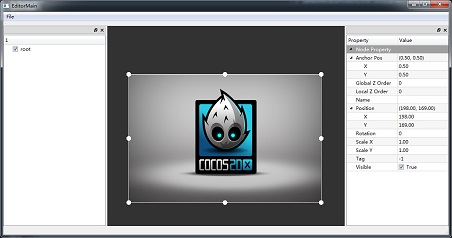
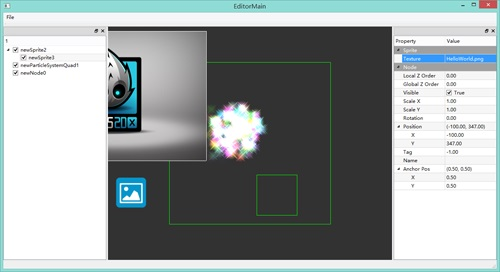
Add EditorNode,DefaultValue, set root Node read only. Update preview.jpg

diff --git a/qteditor/Editor/PropertyDef.cpp b/qteditor/Editor/PropertyDef.cpp
@@ -45,6 +45,7 @@ public:
 	virtual void beginGroup(const std::string& name)
 	{
 		_current = _mgr->addProperty(QtVariantPropertyManager::groupTypeId(), QLatin1String(name.c_str()));
+		_rootProps[name] = _current;
 	}
 
 	virtual void endGroup()
@@ -52,14 +53,8 @@ public:
 		_browser->addProperty(_current);
 	}
 
-	virtual QtVariantProperty* add(
-		const std::string& name, AttributeAccessor* accessor, const Variant& defaultValue, const Variant& minimum, const Variant& maximum, const Variant& step)
+	virtual void updateValue(QtVariantProperty* item, AttributeAccessor* accessor, const Variant& defaultValue, const Variant& minimum, const Variant& maximum, const Variant& step)
 	{
-		QString dfname = defaultValue.value<QVariant>().typeName();
-		QtVariantProperty *item = _mgr->addProperty(defaultValue.value<QVariant>().type(), QLatin1String(name.c_str()));
-
-		_map[item] = accessor;
-
 		Variant value;
 		accessor->get(_node, value);
 		QVariant v = value.value<QVariant>();
@@ -74,7 +69,18 @@ public:
 		if (!step.isNull())
 			item->setAttribute(QLatin1String("singleStep"), step.value<QVariant>());
 
+	}
+
+	virtual QtVariantProperty* add(
+		const std::string& name, AttributeAccessor* accessor, const Variant& defaultValue, const Variant& minimum, const Variant& maximum, const Variant& step)
+	{
+		QString dfname = defaultValue.value<QVariant>().typeName();
+		QtVariantProperty *item = _mgr->addProperty(defaultValue.value<QVariant>().type(), QLatin1String(name.c_str()));
+
+		_map[item] = accessor;
+		updateValue(item, accessor, defaultValue, minimum, maximum, step);
 		_current->addSubProperty(item);
+
 		return item;
 	}
 
@@ -90,11 +96,23 @@ public:
 		return nullptr;
 	}
 
+	virtual QtVariantProperty* isIn(const std::string& name)
+	{
+		auto iter = _rootProps.find(name);
+		if (iter != _rootProps.end())
+		{
+			return iter->second;
+		}
+
+		return nullptr;
+	}
+
 	Node* _node;
 	QtTreePropertyBrowser* _browser;
 	QtVariantProperty* _current;
 	QtVariantPropertyManager* _mgr;
 	std::map<QtProperty*, AttributeAccessor*> _map;
+	std::map<std::string, QtVariantProperty*> _rootProps;
 };
 
 static Builder s_builder;
@@ -102,6 +120,9 @@ static QtVariantProperty* s_position_prop = nullptr;
 
 static void addAccessorGroup(AccessorGroup* ag)
 {
+	QtVariantProperty* old = s_builder.isIn(ag->name);
+	//if old valid, update it, not re-create
+
 	s_builder.beginGroup(ag->name);
 
 	AccessorGroup::AAInfoList::iterator iter;
@@ -109,7 +130,7 @@ static void addAccessorGroup(AccessorGroup* ag)
 	for (iter = ag->infolist.begin(); iter != ag->infolist.end(); iter++)
 	{
 		AAInfo* aainfo = *iter;
-		s_builder.add(aainfo->accessor->getName(), 
+		s_builder.add(aainfo->accessor->getName(),
 			aainfo->accessor, aainfo->defaultValue, aainfo->mini, aainfo->maxi, aainfo->singleStep);
 	}
 	s_builder.endGroup();
@@ -120,6 +141,8 @@ static void addAccessorGroup(AccessorGroup* ag)
 
 void PropertyDef::setupProperties(const std::string& typeName, Node* instance, QtTreePropertyBrowser* browser, QtVariantPropertyManager* mgr)
 {
+	browser->clear();//re-write
+
 	Builder& b = s_builder;
 	b.set(instance, browser, mgr);
 

diff --git a/qteditor/Editor/AttributeAccessor.cpp b/qteditor/Editor/AttributeAccessor.cpp
@@ -3,6 +3,7 @@
 #include "2d/CCSprite.h"
 #include "2d/CCParticleSystem.h"
 #include "2d/CCParticleSystemQuad.h"
+#include "DefaultValue.h"
 
 AAManager AAManager::_instance;
 
@@ -39,26 +40,6 @@ AccessorGroup* AAManager::getGroup(const std::string& name) const
 static std::string getSpriteTextureName(const Sprite*) { return "image.png"; }//lazy
 static void setSpriteTextureName(Sprite* sp, const std::string& name) { sp->setTexture(name); }
 
-static Node* defaultNodeCtor() 
-{
-	Node* node = Node::create();
-	node->setContentSize(Size(100, 100));
-	return node;
-}
-
-static Sprite* defaultSpriteCtor()
-{
-	Sprite* sp = Sprite::create("image.png");
-	return sp;
-}
-
-static ParticleSystemQuad* defaultParticleSystem()
-{
-	ParticleSystemQuad* psq = ParticleSystemQuad::create("default_particle.plist");
-	psq->setContentSize(Size(100, 100));
-	return psq;
-}
-
 #define ATTR_(trait, name, get, set, typeName, defaultValue) \
 	currentGroup->add(new AAInfo(new AttributeAccessorImpl<TYPE, typeName, trait<typeName> >(name, get, set), defaultValue)) \
 
@@ -88,7 +69,7 @@ void AAManager::initAll()
 {
 	AccessorGroup* currentGroup;
 
-	StartGroup(Node, defaultNodeCtor);
+	StartGroup(Node, DefaultValue::defaultNodeCtor);
 	ATTR("Local Z Order", &Node::getLocalZOrder, &Node::setLocalZOrder, int, 0);
 	ATTR("Global Z Order", &Node::getGlobalZOrder, &Node::setGlobalZOrder, float, 0.0f);
 	ATTR("Visible", &Node::isVisible, &Node::setVisible, bool, true);
@@ -101,12 +82,12 @@ void AAManager::initAll()
 	ATTRMMS("Anchor Pos", &Node::getAnchorPoint, &Node::setAnchorPoint, Vec2, Vec2(0, 0), Vec2(0, 0), Vec2(1, 1), Vec2(0.1, 0.1));
 	EndGroup();
 
-	StartGroup(Sprite, defaultSpriteCtor);
+	StartGroup(Sprite, DefaultValue::defaultSpriteCtor);
 	Require(Node);
 	ATTRMixed1("Texture", &getSpriteTextureName, &setSpriteTextureName, std::string, std::string());
 	EndGroup();
 
-	StartGroup(ParticleSystemQuad, defaultParticleSystem);
+	StartGroup(ParticleSystemQuad, DefaultValue::defaultParticleSystem);
 	Require(Node);
 
 	ATTR("Duration", &ParticleSystem::getDuration, &ParticleSystem::setDuration, float, 0);

diff --git a/qteditor/EditorMain.cpp b/qteditor/EditorMain.cpp
@@ -19,9 +19,6 @@ EditorMain::EditorMain(QWidget *parent)
 	_variantManager = new QtVariantPropertyManager();
 	QtVariantEditorFactory *variantFactory = new QtVariantEditorFactory();
 
-	connect(_variantManager, SIGNAL(valueChanged(QtProperty *, const QVariant &)),
-		this, SLOT(valueChanged(QtProperty *, const QVariant &)));
-
 	_variantEditor = new QtTreePropertyBrowser();
 	_variantEditor->setFactoryForManager(_variantManager, variantFactory);
 	_variantEditor->setPropertiesWithoutValueMarked(true);
@@ -50,13 +47,14 @@ void EditorMain::boxPositionChanged(const Vec2& pos)
 	PropertyDef::setPosition(_sceneCtrl->getBox()->getNode(), QPoint(pos.x, pos.y));
 }
 
-void EditorMain::viewBoxAttr()
+void EditorMain::viewBoxAttr(Node* node)
 {
-	_variantEditor->clear();
-
-	Node* node = _sceneCtrl->getBox()->getNode();
+	//avoid while(1)
+	disconnect(_variantManager, SIGNAL(valueChanged(QtProperty *, const QVariant &)), this, SLOT(valueChanged(QtProperty *, const QVariant &)));
 
 	PropertyDef::setupProperties(_sceneCtrl->getNodeType(node), node, _variantEditor, _variantManager);
+
+	connect(_variantManager, SIGNAL(valueChanged(QtProperty *, const QVariant &)), this, SLOT(valueChanged(QtProperty *, const QVariant &)));
 }
 
 void EditorMain::onStart()
@@ -80,9 +78,9 @@ void EditorMain::onStart()
 
 	_sceneCtrl = _glwindow->createCocos2dSceneCtrl();
 
-	connect(_sceneCtrl, SIGNAL(selectedBox()), this, SLOT(viewBoxAttr()));
+	connect(_boxlist, SIGNAL(onSelectNode(Node*)), this, SLOT(viewBoxAttr(Node*)));
+	connect(_boxlist, SIGNAL(onSelectNode(Node*)), _sceneCtrl, SLOT(setCurrentNode(Node*)));
 	connect(_boxlist, SIGNAL(newNode(NodeInfo*)), _sceneCtrl, SLOT(registerNode(NodeInfo*)));
 	connect(_sceneCtrl->getBox(), SIGNAL(onPositionChanged(const Vec2&)), this, SLOT(boxPositionChanged(const Vec2&)));
-	connect(_boxlist, SIGNAL(onSelectNode(Node*)), _sceneCtrl, SLOT(setCurrentNode(Node*)));
 	_boxlist->updateList(_sceneCtrl->getUiRoot());
 }

diff --git a/qteditor/BoxList.cpp b/qteditor/BoxList.cpp
@@ -67,23 +67,19 @@ void BoxList::showMenu(const QPoint& pos)
 void BoxList::doAddWidget(QAction* act)
 {
 	std::string typeName = std::string(act->text().toUtf8());
-	MyTreeWidgetItem* newItem = add("new" + QString::number(_index), _currentWidget);
+	MyTreeWidgetItem* newItem = add("new" + act->text() + QString::number(_index++), _currentWidget);
 
 	newItem->setSelected(true);
 
-	if (!_currentWidget)
-		return;
-
-	if (_currentWidget->childCount() == 1)
-		_currentWidget->setExpanded(true);
-
-	_currentWidget->setSelected(false);
+	Node* parent = _root;
+	if (_currentWidget)
+		parent = _currentWidget->node;
 
 	const AAManager::GroupMap& map = AAManager::getInstance().getGroups();
 	AccessorGroup* info = map.at(typeName);
 
 	newItem->node = info->ctor->operator()();
-	_currentWidget->node->addChild(newItem->node);
+	parent->addChild(newItem->node);
 
 	NodeInfo nodeinfo;
 	nodeinfo.node = newItem->node;
@@ -92,13 +88,18 @@ void BoxList::doAddWidget(QAction* act)
 	emit newNode(&nodeinfo);
 	emit onSelectNode(newItem->node);//
 
-	_currentWidget = NULL;
+	if (_currentWidget)
+	{
+		if (_currentWidget->childCount() == 1)
+			_currentWidget->setExpanded(true);
+
+		_currentWidget->setSelected(false);
+		_currentWidget = NULL;
+	}
 }
 
 void BoxList::updateList(Node* root)
 {
-	MyTreeWidgetItem *item = add("root");
-	item->node = root;
-	
+	_root = root;
 	//for each child
 }

diff --git a/qteditor/Editor/EditorNode.cpp b/qteditor/Editor/EditorNode.cpp
@@ -1,0 +1,26 @@
+#include "EditorNode.h"
+#include "base/CCDirector.h"
+#include "2d/CCDrawingPrimitives.h"
+#include "renderer/CCRenderer.h"
+
+
+static void editor_draw(const Mat4 &transform, Size size)
+{
+
+	Director::getInstance()->pushMatrix(MATRIX_STACK_TYPE::MATRIX_STACK_MODELVIEW);
+	Director::getInstance()->loadMatrix(MATRIX_STACK_TYPE::MATRIX_STACK_MODELVIEW, transform);
+
+	//todo: draw name, draw Anchor Point?
+	DrawPrimitives::setDrawColor4F(0, 1, 0, 1);
+	DrawPrimitives::drawRect(Vec2(0, 0), size);
+	DrawPrimitives::setDrawColor4F(1, 1, 1, 1);
+
+	Director::getInstance()->popMatrix(MATRIX_STACK_TYPE::MATRIX_STACK_MODELVIEW);
+}
+
+void EditorNode::draw(Renderer* renderer, const Mat4 &transform, uint32_t flags)
+{
+	_drawCmd.init(_globalZOrder, transform, flags);
+	_drawCmd.func = std::bind(editor_draw, transform, getContentSize());
+	renderer->addCommand(&_drawCmd);
+}

diff --git a/qteditor/Editor/DefaultValue.cpp b/qteditor/Editor/DefaultValue.cpp
@@ -1,0 +1,26 @@
+#include "DefaultValue.h"
+#include "EditorNode.h"
+
+Node* DefaultValue::defaultNodeCtor()
+{
+#ifdef QT_GUI_LIB//lazy
+	Node* node = EditorNode::create();
+#else
+	Node* node = Node::create();
+#endif
+	node->setContentSize(Size(100, 100));
+	return node;
+}
+
+Sprite* DefaultValue::defaultSpriteCtor()
+{
+	Sprite* sp = Sprite::create("image.png");
+	return sp;
+}
+
+ParticleSystemQuad* DefaultValue::defaultParticleSystem()
+{
+	ParticleSystemQuad* psq = ParticleSystemQuad::create("default_particle.plist");
+	psq->setContentSize(Size(100, 100));
+	return psq;
+}

diff --git a/qteditor/Editor/SceneCtrl.cpp b/qteditor/Editor/SceneCtrl.cpp
@@ -1,6 +1,7 @@
 #include "SceneCtrl.h"
 #include "2d/CCSprite.h"
 #include "WindowBox.h"
+#include "EditorNode.h"
 
 Node* SceneCtrl::getUiRoot()
 {
@@ -11,7 +12,7 @@ bool SceneCtrl::init(float frameWidth, float frameHeight)
 {
 	Node::init();
 
-	_rootNode = Node::create();
+	_rootNode = EditorNode::create();
 	_rootNode->setContentSize(Size(400, 400));
 	addChild(_rootNode);
 

diff --git a/qteditor/Editor/EditorNode.h b/qteditor/Editor/EditorNode.h
@@ -1,0 +1,17 @@
+#ifndef _EDITOR_NODE_H_
+#define _EDITOR_NODE_H_
+
+#include "renderer/CCCustomCommand.h"
+#include "2d/CCNode.h"
+USING_NS_CC;
+
+class EditorNode : public Node
+{
+public:
+	virtual void draw(Renderer* renderer, const Mat4 &transform, uint32_t flags);
+	CREATE_FUNC(EditorNode);
+private:
+	CustomCommand _drawCmd;
+};
+
+#endif//_EDITOR_NODE_H_

diff --git a/qteditor/Editor/DefaultValue.h b/qteditor/Editor/DefaultValue.h
@@ -1,0 +1,17 @@
+#ifndef _DEFAULT_VALUE_H_
+#define _DEFAULT_VALUE_H_
+
+#include "2d/CCNode.h"
+#include "2d/CCSprite.h"
+#include "2d/CCParticleSystemQuad.h"
+USING_NS_CC;
+
+namespace DefaultValue
+{
+	Node* defaultNodeCtor();
+	Sprite* defaultSpriteCtor();
+	ParticleSystemQuad* defaultParticleSystem();
+}
+
+
+#endif//_DEFAULT_VALUE_H_

diff --git a/qteditor/EditorMain.h b/qteditor/EditorMain.h
@@ -25,7 +25,7 @@ public:
 private slots:
 	void valueChanged(QtProperty *, const QVariant &);
 	void boxPositionChanged(const Vec2& pos);
-	void viewBoxAttr();
+	void viewBoxAttr(Node*);
 
 
 public:

diff --git a/qteditor/BoxList.h b/qteditor/BoxList.h
@@ -40,6 +40,7 @@ private:
 	Ui::Form ui;
 	MyTreeWidgetItem* _currentWidget;
 	int _index;
+	Node* _root;
 };
 
 #endif // BOXLIST_H
